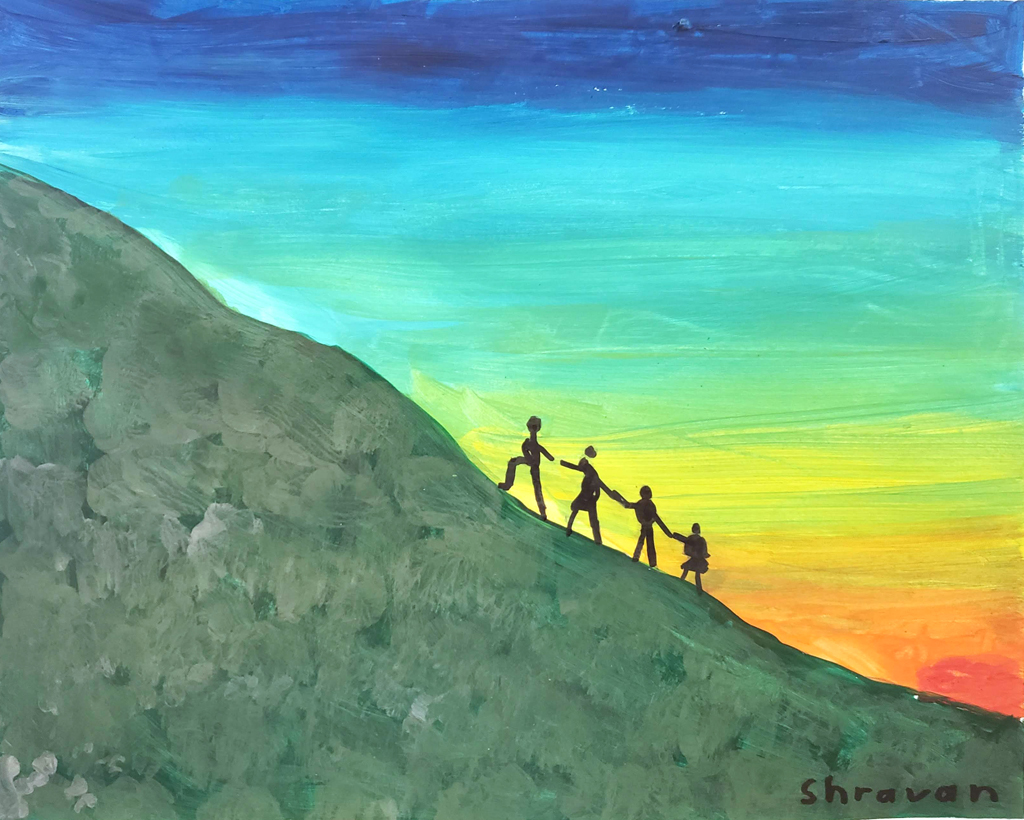
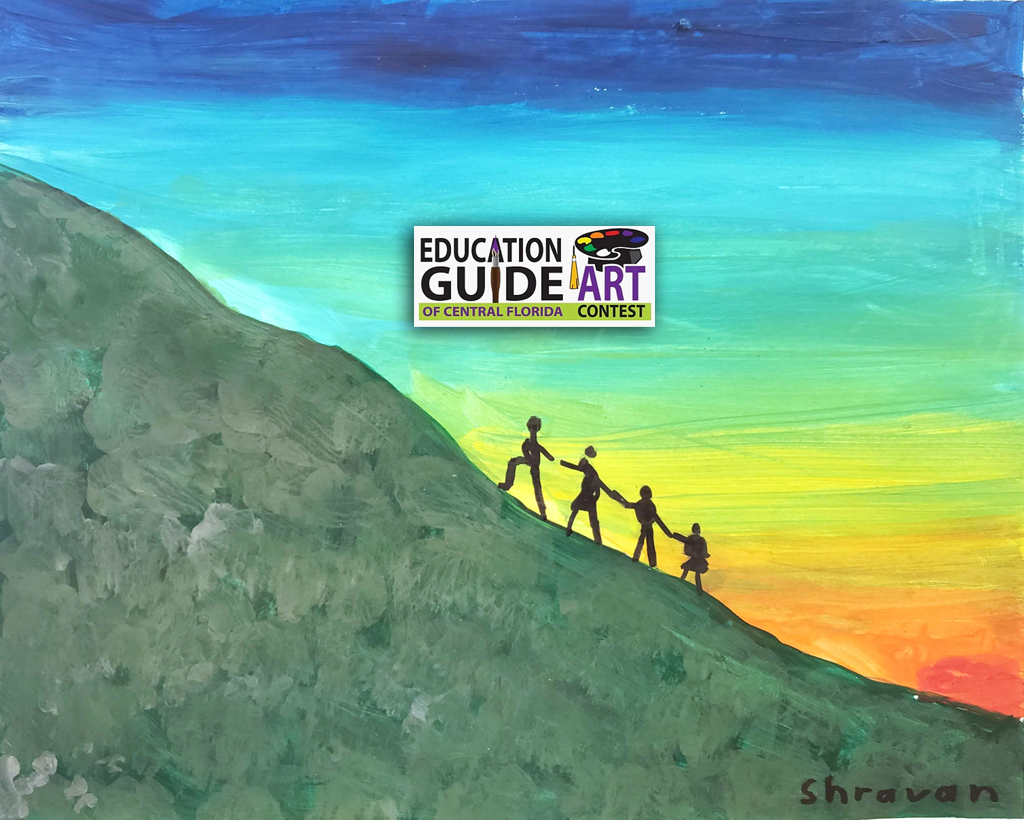
Updating featured posts

Changed region(s): [[0.375, 0.2439, 0.6562, 0.4268]]

diff --git a/static/plugins/custom/custom.css b/static/plugins/custom/custom.css
@@ -59,24 +59,25 @@
 
 
 
-  .swiper-slide .content {
-    background-color: rgba(0, 0, 0, 0.705);
-    position: absolute;
-    top: 80%;
-    left: 0;
-    width: 100%;
-    padding: 15px;
-    padding-left: 10%;
-    color: #fff;
-  }
+
 
   @media screen and (min-width : 100px)
 {
+  .swiper-slide .content {
+    background-color: rgba(0, 0, 0, 0.705);
+    position: absolute;
+    top: 70%; /* palcement of the capton box */
+    height: 30%;
+    left: 0;
+    width: 100%;
+    padding: 15px;
+    padding-left: 5%;
+    color: #fff;
+  }
 
-  .swiper-container {
+  .swiper-container { /* slider container*/
     width: 100%;
     height: 100vh;
-    margin-top: 5%;
     float: left;
     transition: opacity 0.6s ease, transform 0.3s ease;
     overflow:auto;
@@ -89,7 +90,7 @@
     background-color: rgba(0, 0, 0, 0.301);
     left: 0px;
     text-align: left;
-    margin-top: 40vh;
+    /* margin-top: 40vh; */
     padding-left: 10%;
     opacity: 1;
     transition: opacity 0.3s ease, transform 0.7s ease;
@@ -106,8 +107,8 @@
   .swiper-slide .content .caption {
     font-family: 'Pontano Sans', sans-serif!important;
     display: block;
-    font-size: 0.7em;
-    line-height: 1.0;
+    font-size: 0.9em;
+    line-height: 1.5;
     transform: translateX(50px);
     opacity: 0;
     transition: opacity 0.3s ease, transform 0.7s ease;
@@ -125,6 +126,17 @@
 
 @media screen and (min-width : 720px)
 {
+
+  .swiper-slide .content {
+    background-color: rgba(0, 0, 0, 0.705);
+    position: absolute;
+    top: 80%;
+    left: 0;
+    width: 100%;
+    padding: 15px;
+    padding-left: 10%;
+    color: #fff;
+  }
 
   .swiper-container {
     width: 80%;

diff --git a/static/plugins/custom/custom.js b/static/plugins/custom/custom.js
@@ -1,7 +1,7 @@
 // Params
 let mainSliderSelector = ".main-slider",
   navSliderSelector = ".nav-slider",
-  interleaveOffset = 0.5;
+  interleaveOffset = 1.0;
 
 // Main Slider
 let mainSliderOptions = {
@@ -10,7 +10,7 @@ let mainSliderOptions = {
   autoplay: {
     delay: 3000
   },
-  loopAdditionalSlides: 10,
+  loopAdditionalSlides: 5,
   grabCursor: true,
   watchSlidesProgress: true,
   navigation: {
@@ -67,7 +67,7 @@ let mainSlider = new Swiper(mainSliderSelector, mainSliderOptions);
 // Navigation Slider
 let navSliderOptions = {
   loop: true,
-  loopAdditionalSlides: 10,
+  loopAdditionalSlides: 5,
   speed: 1000,
   spaceBetween: 5,
   slidesPerView: 5,
@@ -89,5 +89,3 @@ let navSlider = new Swiper(navSliderSelector, navSliderOptions);
 // Matching sliders
 mainSlider.controller.control = navSlider;
 navSlider.controller.control = mainSlider;
-
-console.log("mayila!!!");

diff --git a/content/posts/Feature-Shravan.md b/content/posts/Feature-Shravan.md
@@ -5,10 +5,10 @@ draft: false
 featured: true
 weight: 1
 image: "/images/featured-post/portraitx1024.png"
-summary: I ❤ painting. 
+summary: Shravan is a talented young artist who lives with his mom, dad and sister in Orlando, FL. He is overcoming his speech and social skills deficits by creating art. He loves the sensory nature of creating art. His favorite medium is acrylic and loves doing still-life.
 toc: false
 ---
 
 {{< figure src="/images/featured-post/shravan_thumb.jpg" width="150" height="100" title="" >}}
 
-Shravan is a talented artist who lives with his mom, dad and sister in Orlando, FL. He is overcoming his speech and social deficits that we was born with by creating art. He loves the sensory nature of creating art. His favorite medium is acrylic and loves doing still-life.
+Shravan is a talented young artist who lives with his mom, dad and sister in Orlando, FL. He is overcoming his speech and social skills deficits by creating art. He loves the sensory nature of creating art. His favorite medium is acrylic and loves doing still-life.

diff --git a/content/posts/Feature-Oranges.md b/content/posts/Feature-Oranges.md
@@ -5,7 +5,7 @@ draft: false
 featured: true
 weight: 2
 image: "/images/featured-post/top-talent.jpg"
-summary: adsd asd a sd asd asd 
+summary: Acrylic on canvas. Won the first place on Top Talent 2021 conducted among OCPS schools district. Organized by a Foundation for Orange County Public School Events
 ---
 
 asd as dadasd

diff --git a/content/posts/Feature-Family.md b/content/posts/Feature-Family.md
@@ -5,7 +5,7 @@ draft: false
 featured: true
 weight: 4
 image: "/images/featured-post/family.jpg"
-summary: adsd asd a sd asd asd 
+summary: Exciting news! My drawing for the Education Guide of Central Florida art contest has been selected as one of the top 10 finalists!
 ---
 
 asd as dadasd

diff --git a/content/posts/Feature-Squares.md b/content/posts/Feature-Squares.md
@@ -5,7 +5,7 @@ draft: false
 featured: true
 weight: 5
 image: "/images/featured-post/squares.png"
-summary: adsd asd a sd asd asd 
+summary: Geometric shapes are a favorite when doodling. 
 ---
 
 asd as dadasd
